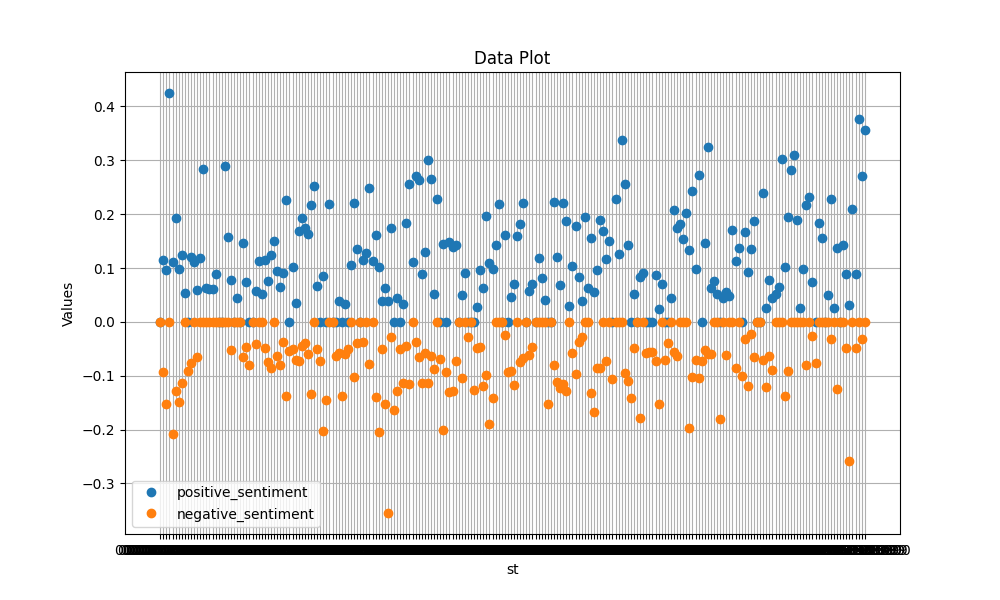
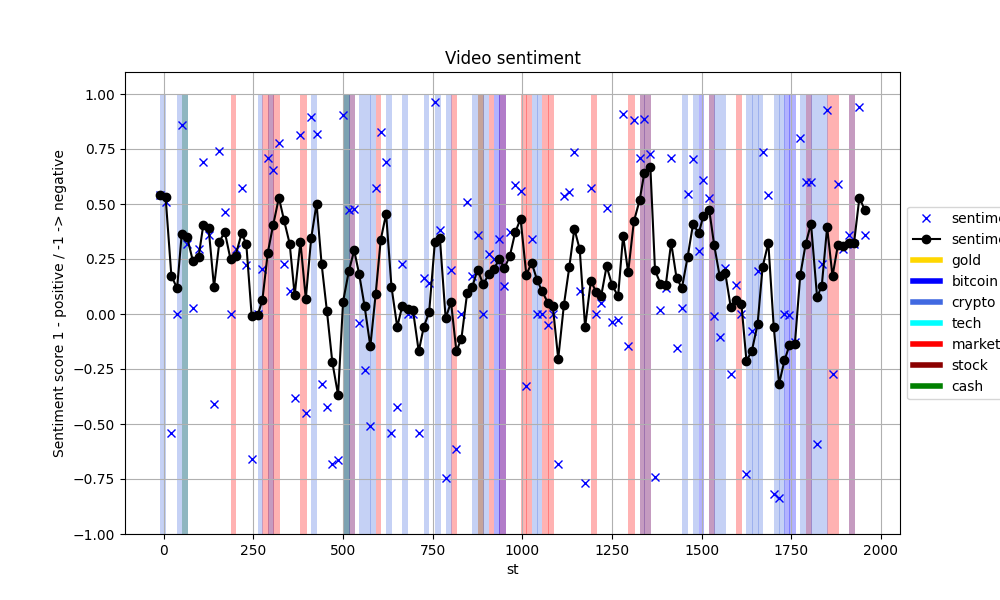
minor changes

diff --git a/src/backend/analyzer.py b/src/backend/analyzer.py
@@ -9,6 +9,7 @@ import inspect
 import pandas as pd 
 import matplotlib.pyplot as plt
 import numpy as np
+import matplotlib.lines as mlines
 #pd.set_option('display.max_columns', None)  # display all columns
 #pd.set_option('display.max_rows', None)  # display all rows
 pd.set_option('display.max_colwidth', None)  # display all contents of a column
@@ -43,8 +44,13 @@ class Analyzer():
         self.negative_dict = {word: -1 for word in self.negative_keywords}
         self.reports_config={
             #'rows_with_keywords_columns':['txt','ts_url','positive_sentiment','negative_sentiment','st']
-            'rows_with_keywords_columns':['compound_sentiment','st','ts_url','txt','positive_sentiment','negative_sentiment']
-            ,'plot_cols':{'x':'st','y':['positive_sentiment','negative_sentiment']}
+            'rows_with_keywords_columns':['sentiment','st','ts_url','txt','positive_sentiment','negative_sentiment','en']
+            ,'plot_cols':{'x':'st','y':['sentiment','sentiment_ema']}
+            ,'plot_markers':{'sentiment':'x','sentiment_ema':'o'}
+            ,'plot_colors':{'sentiment':'b','sentiment_ema':'k'}
+            ,'plot_linestyles':{'sentiment':'','sentiment_ema':'-'}
+            ,'keywords_colors':{'gold':'gold','bitcoin':'blue','crypto':'royalblue','tech':'cyan','market':'red','stock':'darkred','cash':'green','dollar':'lighgreen'}
+        
         }
         self.standard_columns={'json_column':'json_column'
                                ,'ts_url':'ts_url'
@@ -76,7 +82,9 @@ class Analyzer():
     def calculate_sentiment(self, text):
         sia = SentimentIntensityAnalyzer()
         sentiment_score = sia.polarity_scores(text)
-        return -sentiment_score['neg'],sentiment_score['pos'],sentiment_score['neu'],sentiment_score['compound']
+        if abs(sentiment_score['compound'])>0.75:
+            strong_sentiment=1
+        return -sentiment_score['neg'],sentiment_score['pos'],sentiment_score['neu'],sentiment_score['compound'],strong_sentiment
 
     def calculate_url_ts(self,st,url,key='vid_url'):
         ff=self.utils.ts_to_flt(st)
@@ -84,7 +92,8 @@ class Analyzer():
         ts_url=f'{d[key]}#t={ff}'
         return ts_url
         
-    def make_plot(self,subs_df=None,cols=None,png_name=None,png_fp=None):
+    # makes a plot 
+    def make_plot(self,subs_df=None,cols=None,png_name=None,png_fp=None,ts_report_df=None):
         if subs_df is None :
             subs_df=self.subs_df
         if cols is None:
@@ -94,33 +103,55 @@ class Analyzer():
         if png_fp is None:
             png_fp=self.png_fp
             
+        tmp_df=subs_df.copy()
+        tmp_df['sentiment_ema']=tmp_df['sentiment'].ewm(span=5, adjust=False).mean()
+        
+        tmp_df['st']=tmp_df['st'].apply(lambda x: self.utils.ts_to_flt(x))
+        tmp_df['en']=tmp_df['en'].apply(lambda x: self.utils.ts_to_flt(x))
+        ts_report_df['st']=ts_report_df['st'].apply(lambda x: self.utils.ts_to_flt(x))
+        ts_report_df['en']=ts_report_df['en'].apply(lambda x: self.utils.ts_to_flt(x))
 
         plt.figure(figsize=(10,6))
-        
         y_col=cols['y']
         x_col=cols['x']
-
-        
-
-
+        marker_dict=self.reports_config['plot_markers']
+        color_dict=self.reports_config['plot_colors']
+        linestyle_dict=self.reports_config['plot_linestyles']
         if isinstance(y_col, list):
             for col in y_col:
-                print(col)
-                mask = subs_df[col] != -999
-                plt.plot(subs_df[x_col][mask], subs_df[col][mask], 'o', label=col)
-        else:
-            mask = subs_df[y_col] != -999
-            plt.plot(subs_df[x_col][mask], subs_df[y_col][mask], 'o', label=y_col)
+                mask = tmp_df[col] != -999
+                plt.plot(tmp_df[x_col][mask], tmp_df[col][mask], marker=marker_dict[col], color=color_dict[col],linestyle=linestyle_dict[col],label=col)
 
-            
+        else:
+            mask = tmp_df[y_col] != -999
+            plt.plot(tmp_df[x_col][mask], tmp_df[y_col][mask],marker=marker_dict[col], color=color_dict[col],linestyle=linestyle_dict[col],label=col)
+
+        keywords_colors=self.reports_config['keywords_colors']
+        for keyword in self.keywords:
+            condition_mask = ts_report_df['keyword'] == keyword
+            for x, width in zip(ts_report_df[x_col][condition_mask], (ts_report_df['en'] - ts_report_df[x_col])[condition_mask]):
+                plt.bar(x, height=2, width=width, bottom=-1, color=keywords_colors[keyword], align='edge', alpha=0.3)
+
+        # Get the legend handles and labels for the plot
+        handles, labels = plt.gca().get_legend_handles_labels()
+
+        # For each keyword, create a legend entry and add it to the list
+        for keyword, color in keywords_colors.items():
+            handles.append(mlines.Line2D([0], [0], color=color, lw=4, label=keyword))
+
+        # Add the combined legend to the plot
+       # plt.legend(handles=handles, loc='upper left')
+        plt.legend(handles=handles, loc='center left', bbox_to_anchor=(1, 0.5))
+
         plt.xlabel(x_col)
-        plt.ylabel('Values')
-        plt.legend()
-        plt.title('Data Plot')
+        plt.ylabel('Sentiment score 1 - positive / -1 -> negative')
+        plt.title('Video sentiment')
         plt.grid(True)
         print(png_fp)
         plt.savefig(png_fp)
         plt.close()
+
+
         
     # adds series to a dataframe s
 
@@ -160,7 +191,7 @@ class Analyzer():
     def make_calulations(self,url = None):
         if url is None:
             url=self.subs_meta['url']
-        self.apply_to_dataframe(src_col='txt',tgt_col=['negative_sentiment','positive_sentiment','neutral_sentiment','compound_sentiment'] ,fun=self.calculate_sentiment)
+        self.apply_to_dataframe(src_col='txt',tgt_col=['negative_sentiment','positive_sentiment','neutral_sentiment','sentiment','strong_sentiment'] ,fun=self.calculate_sentiment)
         self.apply_to_dataframe(src_col='txt',tgt_col=self.standard_columns['json_column'],fun=self.calculate_keywords)    
         self.apply_to_dataframe(src_col='st',tgt_col=self.standard_columns['ts_url'],fun=lambda x: self.calculate_url_ts(x,url)) # maybe i should change things so i dont have to do that 
 
@@ -191,11 +222,11 @@ class Analyzer():
         aggregates_d={}
         for keyword in self.keywords:
             msk=tmp_df['keyword']==keyword
-            data=tmp_df[msk]['compound_sentiment']
+            data=tmp_df[msk]['sentiment']
             aggregates_d[keyword]=np.round(data.mean(),3)
             
-        msk=subs_df['compound_sentiment']!=0
-        aggregates_d['overall_sentiment']=np.round(subs_df[msk]['compound_sentiment'].mean(),3)
+        msk=subs_df['sentiment']!=0
+        aggregates_d['overall_sentiment']=np.round(subs_df[msk]['sentiment'].mean(),3)
         return tmp_df,aggregates_d
         
 if __name__=='__main__':

diff --git a/src/backend/workflows.py b/src/backend/workflows.py
@@ -131,6 +131,7 @@ def wf__make_report(url=None):
         url='https://www.youtube.com/watch?v=T3UtaZB0UjY&ab_channel=DavidLin'
         url='https://www.youtube.com/watch?v=ammoIiY3MZo&ab_channel=DavidLin'
         url='https://www.youtube.com/watch?v=9_uvb_8Hd5I&ab_channel=DavidLin'
+        url='https://www.youtube.com/watch?v=ammoIiY3MZo&ab_channel=DavidLin'
     ytd=Ytd()
     ytd.download_subs(url=url)
     ytd.parse_subs()
@@ -141,14 +142,14 @@ def wf__make_report(url=None):
     an=Analyzer()
     an.subs_df,an.subs_meta=an.utils.read_hdf(hdf_fp=ytd.utils.path_join('data','tmp','subs_df.h5'))
     an.make_calulations()
-    report_df,aggregates_d=an.make_ts_report()
+    ts_report_df,aggregates_d=an.make_ts_report()
     print(aggregates_d)
-    an.utils.dump_df(report_df,fp=an.utils.path_join('data','tmp','report_keywords_df.csv'))
+    an.utils.dump_df(ts_report_df,fp=an.utils.path_join('data','tmp','ts_report_df.csv'))
     
-    cols=an.reports_config['rows_with_keywords_columns']
-    an.utils.dump_df(an.subs_df[cols],fp=an.utils.path_join('data','tmp','report_df.csv'))
+    #cols=an.reports_config['rows_with_keywords_columns']
+    #an.utils.dump_df(an.subs_df[cols],fp=an.utils.path_join('data','tmp','report_df.csv'))
     
-    an.make_plot()
+    an.make_plot(subs_df=an.subs_df,ts_report_df=ts_report_df)
 #    print(an.subs_df[cols].tail(25))
 
 
